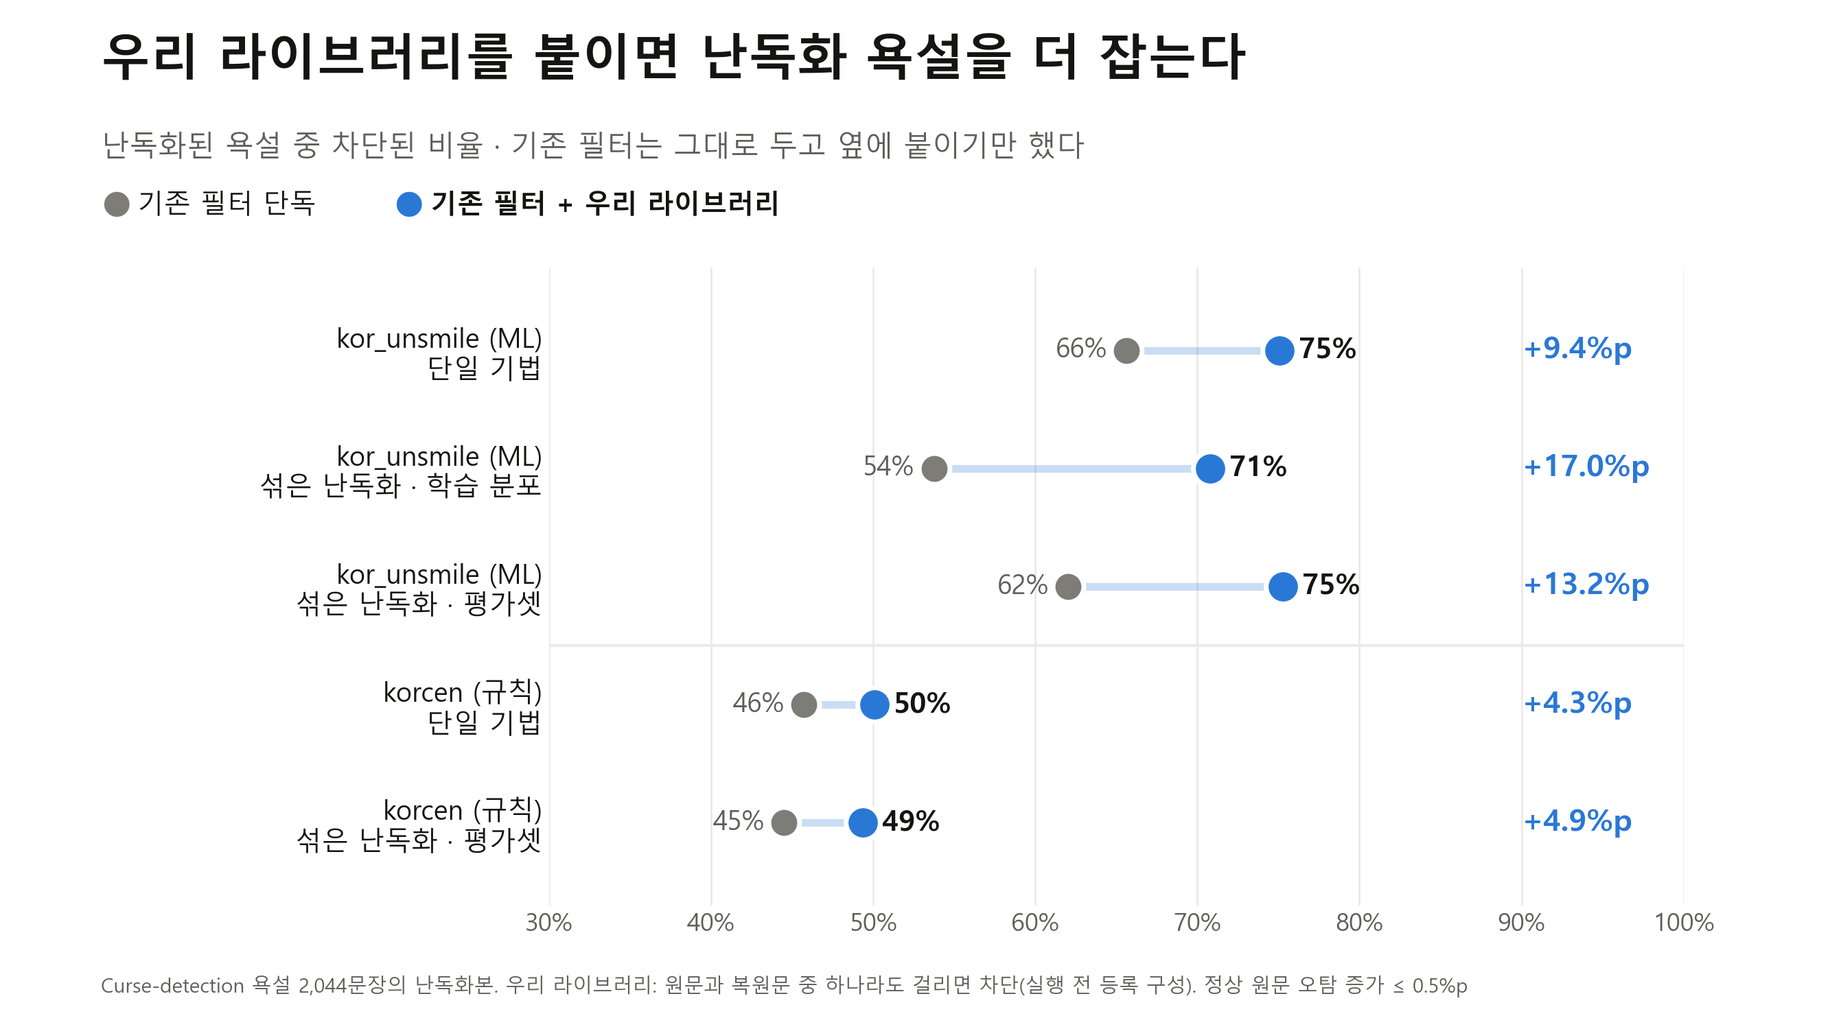
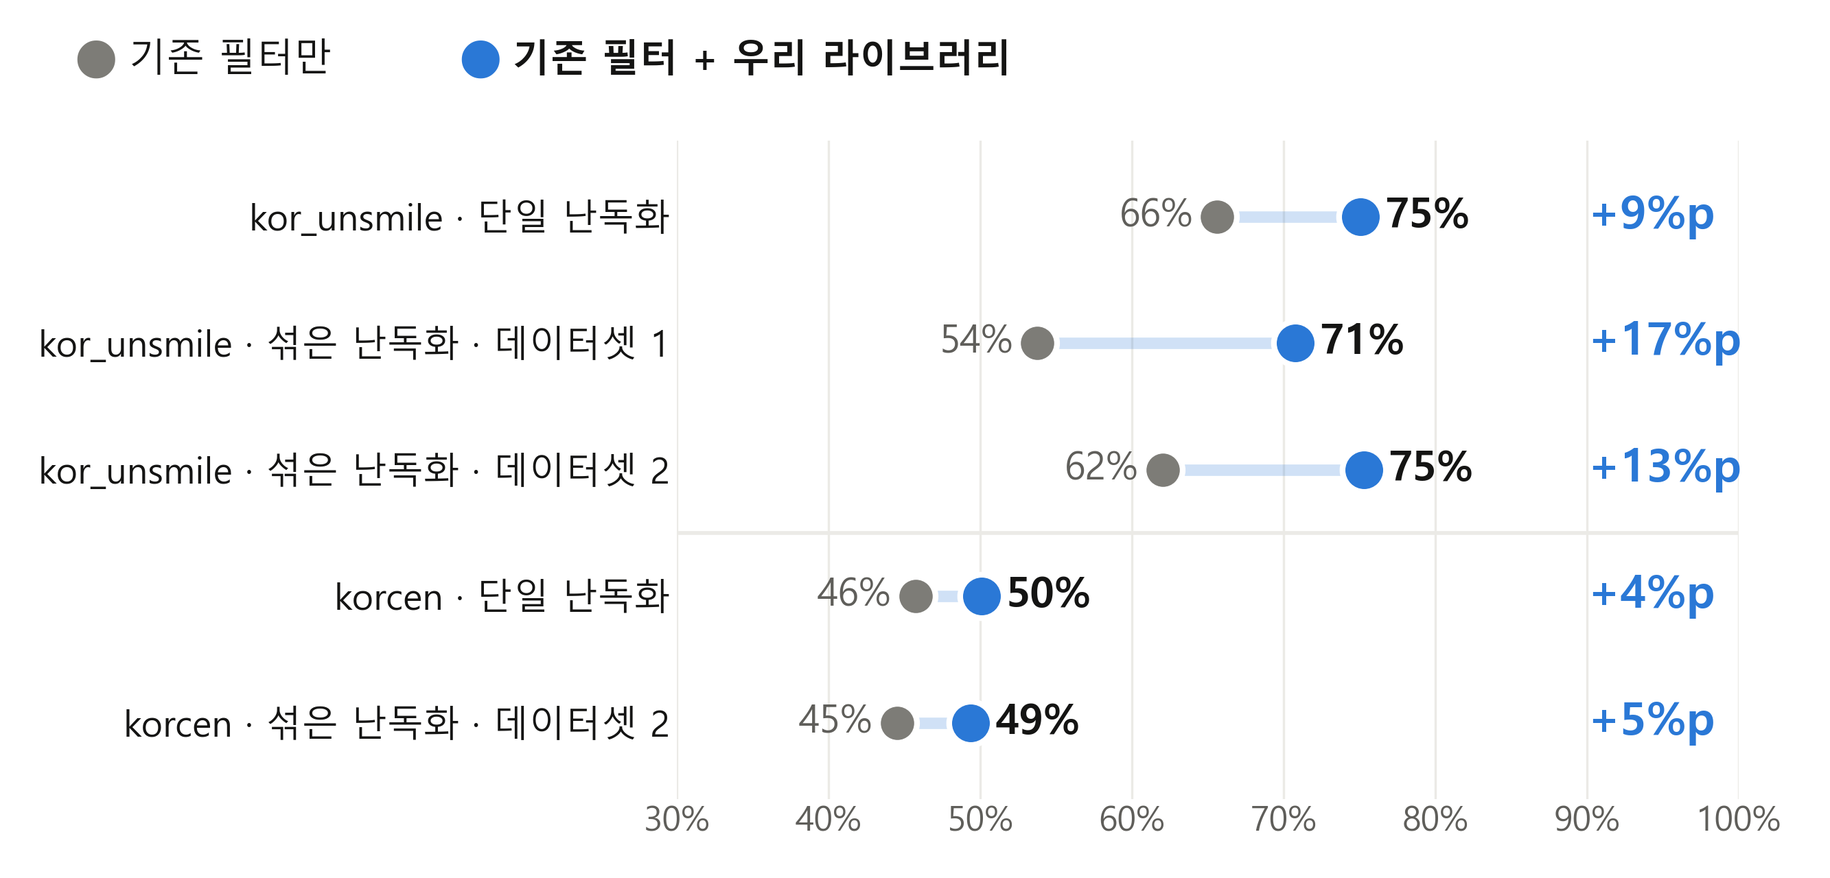
docs(guardrail): P05 슬라이드 그림을 그래프만 남기고 문구는 slides_text.md로 분리

diff --git a/guardrail/exp/p05_profanity/make_slides.py b/guardrail/exp/p05_profanity/make_slides.py
@@ -1,9 +1,12 @@
-"""p05 발표용 슬라이드 그림(16:9) — 기존 필터는 회색, 우리 라이브러리는 파란색 하나로 강조한다.
+"""p05 발표용 슬라이드 그림 — 그래프와 범례만 그린다. 제목·설명·각주는 PPT에서 쓰도록 `slides_text.md`로 따로 낸다.
 
-모든 수치는 results/p05.*/scores.jsonl에서 다시 계산한다. "우리 라이브러리"는 원문 OR 복원문 결합(실행 전 등록 구성,
-p05-mixed-obfuscation)이다. 지표는 난독화된 욕설 전체 중 차단된 비율(감지율)이다.
+기존 필터는 회색, 우리 라이브러리는 파란색 하나로 강조한다. "우리 라이브러리"는 원문 OR 복원문 결합(실행 전 등록 구성,
+p05-mixed-obfuscation)이고, 지표는 난독화된 욕설 중 차단된 비율(감지율)이다. 모든 수치는 results/p05.*/scores.jsonl에서
+다시 계산한다.
 
-    python guardrail/exp/p05_profanity/make_slides.py   # 저장소 루트에서 -> reports/figures/p05/slide_*.png
+데이터셋 표기(발표용): 데이터셋 1 = p04mix(복원 대상 9유형만 섞음), 데이터셋 2 = compose(경계 유형 포함 섞음).
+
+    python guardrail/exp/p05_profanity/make_slides.py   # 저장소 루트에서 -> reports/figures/p05/slide_*.png, slides_text.md
 """
 
 from __future__ import annotations
@@ -16,6 +19,7 @@ import matplotlib
 
 matplotlib.use("Agg")
 import matplotlib.pyplot as plt
+from matplotlib.ticker import FuncFormatter
 
 ROOT = Path(__file__).resolve().parents[3]
 RES, OUT = ROOT / "guardrail" / "results", ROOT / "guardrail" / "reports" / "figures" / "p05"
@@ -23,12 +27,21 @@ plt.rcParams.update({"font.family": "Malgun Gothic", "axes.unicode_minus": False
 
 SURF, INK, INK2, GRID = "#ffffff", "#141413", "#5f5e5a", "#ebeae6"
 OURS, BASE = "#2a78d6", "#7d7c77"
-W, H = 13.33, 7.5
+W, H = 13.33, 6.4                       # PPT 제목 아래 본문 영역(16:9 슬라이드의 약 85%)
+PCT = FuncFormatter(lambda v, _: f"{v:.0f}%")
 
 NAME = {"jamo_decompose": "자모 분해", "phon_insert": "받침·반모음 추가", "spacing": "띄어쓰기", "symbol_insert": "기호 삽입",
         "phon_vowel": "모음 교체", "phon_initial": "초성 교체·된소리", "shape_foreign": "닮은 외국문자", "chosung": "초성체",
         "phon_liaison": "연음", "phon_spelling": "소리 나는 대로", "phon_coda": "받침 교체", "syllable_extend": "음절 늘이기",
         "shape_hangul": "야민정음"}
+RUNS = {  # (필터, 데이터) -> (단독 run, 복원기 run)
+    ("kor_unsmile", "single"): ("p05.2-kor-unsmile", "p05.4-kor-unsmile-restored"),
+    ("kor_unsmile", "d1"): ("p05.6-kor-unsmile-p04mix", "p05.8-kor-unsmile-p04mix-restored"),
+    ("kor_unsmile", "d2"): ("p05.10-kor-unsmile-compose", "p05.12-kor-unsmile-compose-restored"),
+    ("korcen", "single"): ("p05.1-korcen", "p05.3-korcen-restored"),
+    ("korcen", "d2"): ("p05.9-korcen-compose", "p05.11-korcen-compose-restored"),
+}
+DATA = {"single": "단일 난독화", "d1": "섞은 난독화 · 데이터셋 1", "d2": "섞은 난독화 · 데이터셋 2"}
 
 
 def load(run: str) -> dict:
@@ -36,8 +49,8 @@ def load(run: str) -> dict:
         return {j["id"]: j for j in map(json.loads, f)}
 
 
-def detect(base: str, restored: str, key=lambda r: "all") -> dict:
-    """난독화된 욕설 감지율: 필터 단독, 원문 OR 복원문. key로 묶는다."""
+def detect(base: str, restored: str, key=lambda x: "all") -> dict:
+    """난독화된 욕설 감지율(%): (필터 단독, 원문 OR 복원문, 행 수). key로 묶는다."""
     b, r = load(base), load(restored)
     acc = defaultdict(lambda: [0, 0, 0])
     for i, x in b.items():
@@ -47,11 +60,20 @@ def detect(base: str, restored: str, key=lambda r: "all") -> dict:
     return {k: (100 * v[0] / v[2], 100 * v[1] / v[2], v[2]) for k, v in acc.items()}
 
 
-def slide(title: str, subtitle: str, note: str):
+def clean_fpr(base: str, restored: str) -> tuple[float, float]:
+    b, r = load(base), load(restored)
+    neg = [i for i, x in b.items() if x["technique"] is None and x["label"] == 0]
+    return (100 * sum(b[i]["flagged"] for i in neg) / len(neg),
+            100 * sum(b[i]["flagged"] or r[i]["flagged"] for i in neg) / len(neg))
+
+
+def figure(legend: bool = True):
     fig = plt.figure(figsize=(W, H), facecolor=SURF)
-    fig.text(0.055, 0.915, title, fontsize=26, fontweight="bold", color=INK, va="bottom")
-    fig.text(0.055, 0.87, subtitle, fontsize=15, color=INK2, va="top")
-    fig.text(0.055, 0.035, note, fontsize=10.5, color=INK2)
+    if legend:
+        fig.text(0.04, 0.93, "●", color=BASE, fontsize=24, va="center")
+        fig.text(0.07, 0.93, "기존 필터만", color=INK, fontsize=20, va="center")
+        fig.text(0.25, 0.93, "●", color=OURS, fontsize=24, va="center")
+        fig.text(0.28, 0.93, "기존 필터 + 우리 라이브러리", color=INK, fontsize=20, va="center", fontweight="bold")
     return fig
 
 
@@ -59,109 +81,142 @@ def clean(ax, grid="x"):
     ax.set_facecolor(SURF)
     for s in ax.spines.values():
         s.set_visible(False)
-    ax.tick_params(length=0, colors=INK2, labelsize=13)
-    getattr(ax, f"{grid}axis").grid(True, color=GRID, lw=1)
+    ax.tick_params(length=0, colors=INK2, labelsize=18)
+    getattr(ax, f"{grid}axis").grid(True, color=GRID, lw=1.2)
     ax.set_axisbelow(True)
-
-
-def legend_chips(fig, y=0.80):
-    fig.text(0.055, y, "●", color=BASE, fontsize=16, va="center")
-    fig.text(0.075, y, "기존 필터 단독", color=INK, fontsize=14, va="center")
-    fig.text(0.215, y, "●", color=OURS, fontsize=16, va="center")
-    fig.text(0.235, y, "기존 필터 + 우리 라이브러리", color=INK, fontsize=14, va="center", fontweight="bold")
 
 
 def dumbbell(ax, labels, pairs, xlim, delta_x):
     ys = list(range(len(labels)))[::-1]
     for y, (lo, hi) in zip(ys, pairs):
-        ax.plot([lo, hi], [y, y], color=OURS, lw=4, alpha=0.25, solid_capstyle="round", zorder=1)
-        ax.scatter([lo], [y], s=260, color=BASE, zorder=3, edgecolor=SURF, linewidth=2.5)
-        ax.scatter([hi], [y], s=320, color=OURS, zorder=4, edgecolor=SURF, linewidth=2.5)
-        ax.text(lo - 1.2, y, f"{lo:.0f}%", ha="right", va="center", fontsize=14, color=INK2)
-        ax.text(hi + 1.2, y, f"{hi:.0f}%", ha="left", va="center", fontsize=15, color=INK, fontweight="bold")
-        ax.text(delta_x, y, f"+{hi - lo:.1f}%p", ha="left", va="center", fontsize=16, color=OURS, fontweight="bold")
-    ax.set_yticks(ys); ax.set_yticklabels(labels, fontsize=14, color=INK)
-    ax.set_xlim(*xlim); ax.set_ylim(-0.7, len(labels) - 0.3)
-    ax.xaxis.set_major_formatter(matplotlib.ticker.FuncFormatter(lambda v, _: f"{v:.0f}%"))
+        ax.plot([lo, hi], [y, y], color=OURS, lw=6, alpha=0.22, solid_capstyle="round", zorder=1)
+        ax.scatter([lo], [y], s=420, color=BASE, zorder=3, edgecolor=SURF, linewidth=3)
+        ax.scatter([hi], [y], s=520, color=OURS, zorder=4, edgecolor=SURF, linewidth=3)
+        ax.text(lo - 1.6, y, f"{lo:.0f}%", ha="right", va="center", fontsize=20, color=INK2)
+        ax.text(hi + 1.6, y, f"{hi:.0f}%", ha="left", va="center", fontsize=22, color=INK, fontweight="bold")
+        ax.text(delta_x, y, f"+{hi - lo:.0f}%p", ha="left", va="center", fontsize=24, color=OURS, fontweight="bold")
+    ax.set_yticks(ys); ax.set_yticklabels(labels, fontsize=19, color=INK)
+    ax.set_xlim(*xlim); ax.set_ylim(-0.6, len(labels) - 0.4)
+    ax.xaxis.set_major_formatter(PCT)
 
 
-def slide1():
-    rows = [("kor_unsmile (ML)", "단일 기법", "p05.2-kor-unsmile", "p05.4-kor-unsmile-restored"),
-            ("kor_unsmile (ML)", "섞은 난독화 · 학습 분포", "p05.6-kor-unsmile-p04mix", "p05.8-kor-unsmile-p04mix-restored"),
-            ("kor_unsmile (ML)", "섞은 난독화 · 평가셋", "p05.10-kor-unsmile-compose", "p05.12-kor-unsmile-compose-restored"),
-            ("korcen (규칙)", "단일 기법", "p05.1-korcen", "p05.3-korcen-restored"),
-            ("korcen (규칙)", "섞은 난독화 · 평가셋", "p05.9-korcen-compose", "p05.11-korcen-compose-restored")]
-    vals = [detect(b, r)["all"][:2] for _, _, b, r in rows]
-    fig = slide("우리 라이브러리를 붙이면 난독화 욕설을 더 잡는다",
-                "난독화된 욕설 중 차단된 비율 · 기존 필터는 그대로 두고 옆에 붙이기만 했다",
-                "Curse-detection 욕설 2,044문장의 난독화본. 우리 라이브러리: 원문과 복원문 중 하나라도 걸리면 차단(실행 전 등록 구성). "
-                "정상 원문 오탐 증가 ≤ 0.5%p")
-    legend_chips(fig)
-    ax = fig.add_axes([0.30, 0.12, 0.62, 0.62]); clean(ax)
-    dumbbell(ax, [f"{f}\n{c}" for f, c, _, _ in rows], vals, (30, 100), 90)
-    ax.axhline(1.5, color=GRID, lw=1.5)
+def slide1() -> dict:
+    keys = list(RUNS)
+    vals = {k: detect(*RUNS[k])["all"] for k in keys}
+    fig = figure()
+    ax = fig.add_axes([0.37, 0.09, 0.58, 0.75]); clean(ax)
+    labels = [f"{f} · {DATA[d]}" if d != "single" else f"{f} · {DATA[d]}" for f, d in keys]
+    dumbbell(ax, labels, [vals[k][:2] for k in keys], (30, 100), 90)
+    ax.axhline(1.5, color=GRID, lw=2)
     fig.savefig(OUT / "slide_1_detection.png", dpi=200, facecolor=SURF)
+    plt.close(fig)
+    return vals
 
 
-def slide2():
-    d = detect("p05.6-kor-unsmile-p04mix", "p05.8-kor-unsmile-p04mix-restored", key=lambda x: x["type"])
+def slide2() -> dict:
+    d = detect(*RUNS[("kor_unsmile", "d1")], key=lambda x: x["type"])
     ns = sorted(k for k in d if d[k][2] > 100)
     xs = [int(k.split("=")[1]) for k in ns]
     lo, hi = [d[k][0] for k in ns], [d[k][1] for k in ns]
-    fig = slide("섞을수록 기존 필터는 무너지고, 차이는 벌어진다",
-                "kor_unsmile · 한 문장에 섞은 난독화 기법 수별 감지율",
-                "복원기 학습 분포 섞기(p04mix, 복원 대상 9유형, 초성체 제외). 평가셋 섞기(경계 유형 포함)에서도 +12~14%p 유지. "
-                "우리 라이브러리: 원문 OR 복원문")
-    legend_chips(fig)
-    ax = fig.add_axes([0.08, 0.17, 0.80, 0.57]); clean(ax, "y")
+    fig = figure()
+    ax = fig.add_axes([0.08, 0.14, 0.80, 0.70]); clean(ax, "y")
     ax.fill_between(xs, lo, hi, color=OURS, alpha=0.10, lw=0)
-    ax.plot(xs, lo, color=BASE, lw=3.5, marker="o", ms=13, mec=SURF, mew=2.5)
-    ax.plot(xs, hi, color=OURS, lw=4, marker="o", ms=14, mec=SURF, mew=2.5)
+    ax.plot(xs, lo, color=BASE, lw=5, marker="o", ms=18, mec=SURF, mew=3)
+    ax.plot(xs, hi, color=OURS, lw=5.5, marker="o", ms=19, mec=SURF, mew=3)
     for x, a, b in zip(xs, lo, hi):
-        ax.text(x, a - 3.2, f"{a:.0f}%", ha="center", va="top", fontsize=15, color=INK2)
-        ax.text(x, b + 2.6, f"{b:.0f}%", ha="center", va="bottom", fontsize=16, color=INK, fontweight="bold")
-    ax.annotate(f"+{hi[-1] - lo[-1]:.0f}%p", xy=(xs[-1] + 0.12, (lo[-1] + hi[-1]) / 2), fontsize=22, color=OURS,
-                fontweight="bold", va="center")
-    ax.set_xticks(xs); ax.set_xticklabels([f"{x}개" for x in xs], fontsize=15, color=INK)
-    ax.set_xlim(xs[0] - 0.35, xs[-1] + 0.65); ax.set_ylim(30, 90)
-    ax.yaxis.set_major_formatter(matplotlib.ticker.FuncFormatter(lambda v, _: f"{v:.0f}%"))
-    ax.set_xlabel("한 문장에 섞은 기법 수", fontsize=13, color=INK2, labelpad=8)
+        ax.text(x, a - 3.6, f"{a:.0f}%", ha="center", va="top", fontsize=21, color=INK2)
+        ax.text(x, b + 3.0, f"{b:.0f}%", ha="center", va="bottom", fontsize=22, color=INK, fontweight="bold")
+    ax.text(xs[-1] + 0.14, (lo[-1] + hi[-1]) / 2, f"+{hi[-1] - lo[-1]:.0f}%p", fontsize=30, color=OURS,
+            fontweight="bold", va="center")
+    ax.set_xticks(xs); ax.set_xticklabels([f"기법 {x}개" for x in xs], fontsize=20, color=INK)
+    ax.set_xlim(xs[0] - 0.35, xs[-1] + 0.75); ax.set_ylim(30, 90)
+    ax.yaxis.set_major_formatter(PCT)
     fig.savefig(OUT / "slide_2_mixed.png", dpi=200, facecolor=SURF)
+    plt.close(fig)
+    return {"ns": xs, "lo": lo, "hi": hi}
 
 
-def slide3():
-    d = detect("p05.2-kor-unsmile", "p05.4-kor-unsmile-restored", key=lambda x: x["type"])
-    top = sorted(d, key=lambda k: -(d[k][1] - d[k][0]))[:7]
-    fig = slide("가장 크게 되찾는 난독화 유형",
-                "kor_unsmile · 유형별 감지율 (기법 하나씩 적용, 상위 7유형)",
-                "나머지 6유형(연음·소리 나는 대로·받침 교체·초성체·음절 늘이기·야민정음)은 +1.6~6.2%p. "
-                "초성체·야민정음·음절 늘이기는 복원 범위 밖 또는 경계")
-    legend_chips(fig)
-    ax = fig.add_axes([0.24, 0.12, 0.68, 0.62]); clean(ax)
-    dumbbell(ax, [NAME[k] for k in top], [d[k][:2] for k in top], (40, 100), 92)
+def slide3() -> dict:
+    d = detect(*RUNS[("kor_unsmile", "single")], key=lambda x: x["type"])
+    top = sorted(d, key=lambda k: -(d[k][1] - d[k][0]))[:6]
+    fig = figure()
+    ax = fig.add_axes([0.25, 0.09, 0.70, 0.75]); clean(ax)
+    dumbbell(ax, [NAME[k] for k in top], [d[k][:2] for k in top], (40, 100), 91.5)
     fig.savefig(OUT / "slide_3_by_type.png", dpi=200, facecolor=SURF)
+    plt.close(fig)
+    return {k: d[k] for k in sorted(d, key=lambda k: -(d[k][1] - d[k][0]))}
 
 
-def slide4():
-    models = [("우리 라이브러리\n(KcELECTRA 태거)", 0.129, OURS), ("KOTOX 해제 모델\nQwen2.5-7B", 7.6, BASE),
-              ("KOTOX 해제 모델\nEXAONE-3.5-7.8B", 7.8, BASE), ("KOTOX 해제 모델\nBllossom-8B", 8.0, BASE)]
-    fig = slide("LLM 해제 모델의 약 1/60 크기",
-                "난독화 복원 모델 파라미터 수(십억 개)",
-                "우리 라이브러리 지연(문장 1개): GPU p50 6.7ms·p95 12.1ms, CPU p50 14.9ms. "
-                "KOTOX(arXiv 2510.10961) 공개 해제 모델과 크기만 비교했다(속도·정확도는 같은 조건에서 재지 않음)")
-    ax = fig.add_axes([0.24, 0.14, 0.68, 0.62]); clean(ax)
+def slide4() -> list:
+    models = [("우리 라이브러리", 0.129, OURS), ("LLM 해제 모델 A", 7.6, BASE),
+              ("LLM 해제 모델 B", 7.8, BASE), ("LLM 해제 모델 C", 8.0, BASE)]
+    fig = figure(legend=False)
+    ax = fig.add_axes([0.22, 0.10, 0.72, 0.82]); clean(ax)
     ys = list(range(len(models)))[::-1]
     for y, (n, v, c) in zip(ys, models):
-        ax.barh(y, v, height=0.55, color=c, edgecolor=SURF, linewidth=2)
-        ax.text(v + 0.12, y, f"{v:g}B" if v >= 1 else f"{v * 1000:.0f}M", va="center", fontsize=16,
-                color=INK, fontweight="bold" if c == OURS else "normal")
-    ax.set_yticks(ys); ax.set_yticklabels([m[0] for m in models], fontsize=14, color=INK)
-    ax.set_xlim(0, 9); ax.xaxis.set_major_formatter(matplotlib.ticker.FuncFormatter(lambda v, _: f"{v:.0f}B"))
+        ax.barh(y, v, height=0.6, color=c, edgecolor=SURF, linewidth=3)
+        ax.text(v + 0.15, y, f"{v:g}B" if v >= 1 else f"{v * 1000:.0f}M", va="center", fontsize=24,
+                color=OURS if c == OURS else INK, fontweight="bold" if c == OURS else "normal")
+    ax.set_yticks(ys); ax.set_yticklabels([m[0] for m in models], fontsize=20, color=INK)
+    ax.get_yticklabels()[0].set_fontweight("bold")
+    ax.set_xlim(0, 9.2); ax.xaxis.set_major_formatter(FuncFormatter(lambda v, _: f"{v:.0f}B"))
     fig.savefig(OUT / "slide_4_size.png", dpi=200, facecolor=SURF)
+    plt.close(fig)
+    return models
+
+
+def text(v1, v2, v3) -> str:
+    u = lambda d: f"{v1[('kor_unsmile', d)][0]:.0f}% → {v1[('kor_unsmile', d)][1]:.0f}%"
+    f1, f2 = clean_fpr(*RUNS[("kor_unsmile", "d1")])
+    t = list(v3.items())
+    rest = ", ".join(f"{NAME[k]} +{v[1] - v[0]:.1f}%p" for k, v in t[6:])
+    return f"""# P05 발표 슬라이드 문구
+
+그림(`slide_*.png`)에는 그래프와 범례만 있다. 아래 제목·설명·각주를 PPT에 직접 쓴다. 수치는 `make_slides.py`가 결과 파일에서
+다시 계산해 이 파일을 함께 만든다.
+
+## 공통: 데이터셋 설명 (첫 결과 슬라이드나 부록에 한 번)
+
+- **평가 문장**: 공개 커뮤니티 댓글 욕설 데이터(Curse-detection, 5,825문장 중 욕설 2,044문장)
+- **단일 난독화**: 욕설 문장마다 난독화 기법 하나씩 적용(24개 기법)
+- **섞은 난독화 · 데이터셋 1**: 한 문장에 기법 1~4개를 섞음. 우리 라이브러리가 복원하도록 설계된 9개 유형만 사용
+- **섞은 난독화 · 데이터셋 2**: 한 문장에 기법 2~4개를 섞음. 복원 범위 밖의 모양 바꾸기(야민정음·닮은 외국문자 등)까지 포함한 더 현실적인 조건
+- **우리 라이브러리 적용 방식**: 기존 필터는 그대로 두고, 원문과 복원문을 둘 다 검사해 하나라도 걸리면 차단
+- **기존 필터**: kor_unsmile(공개 ML 분류기), korcen(공개 규칙 기반 필터)
+
+## 슬라이드 1 — `slide_1_detection.png`
+
+- 제목: **우리 라이브러리를 붙이면 난독화된 욕설을 더 잡는다**
+- 한 줄 설명: 난독화된 욕설 중 차단된 비율. 기존 필터는 바꾸지 않고 옆에 붙이기만 했다
+- 말할 거리: kor_unsmile 기준 단일 난독화 {u('single')}, 데이터셋 1 {u('d1')}, 데이터셋 2 {u('d2')}
+- 각주: 정상 문장을 욕설로 잘못 막는 비율은 거의 그대로(kor_unsmile {f1:.1f}% → {f2:.1f}%)
+
+## 슬라이드 2 — `slide_2_mixed.png`
+
+- 제목: **섞을수록 기존 필터는 무너지고, 우리 라이브러리와의 차이는 벌어진다**
+- 한 줄 설명: kor_unsmile, 한 문장에 섞은 난독화 기법 수별 감지율(데이터셋 1)
+- 말할 거리: 기법 4개를 섞으면 기존 필터는 {v2['lo'][-1]:.0f}%만 잡지만, 우리 라이브러리를 붙이면 {v2['hi'][-1]:.0f}%(+{v2['hi'][-1] - v2['lo'][-1]:.0f}%p)
+- 각주: 데이터셋 2(복원 범위 밖 유형 포함)에서도 +12~14%p 차이 유지
+
+## 슬라이드 3 — `slide_3_by_type.png`
+
+- 제목: **가장 크게 되찾는 난독화 유형**
+- 한 줄 설명: kor_unsmile, 난독화 유형별 감지율(단일 난독화, 향상폭 상위 6유형)
+- 말할 거리: 자모 분해(ㅅ ㅣ ㅂ ㅏ ㄹ 식) {t[0][1][0]:.0f}% → {t[0][1][1]:.0f}%, 받침·반모음 추가 {t[1][1][0]:.0f}% → {t[1][1][1]:.0f}%
+- 각주: 나머지 유형은 {rest}. 초성체는 현재 복원 범위 밖, 닮은 외국문자·야민정음·음절 늘이기는 경계(복원 여부 미정)
+
+## 슬라이드 4 — `slide_4_size.png`
+
+- 제목: **LLM 기반 해제 모델의 약 1/60 크기**
+- 한 줄 설명: 난독화 복원 모델의 파라미터 수
+- 말할 거리: 우리 라이브러리 1.29억 개, LLM 해제 모델 76억~80억 개. 문장 하나 처리 시간 GPU 약 7ms(p50)
+- 각주: LLM 해제 모델 A·B·C는 KOTOX 연구(arXiv 2510.10961)가 공개한 Qwen2.5-7B·EXAONE-3.5-7.8B·Bllossom-8B 기반 모델. 크기만 비교했고 속도·정확도는 같은 조건에서 재지 않았다
+"""
 
 
 if __name__ == "__main__":
     OUT.mkdir(parents=True, exist_ok=True)
-    for f in (slide1, slide2, slide3, slide4):
-        f()
+    v1, v2, v3 = slide1(), slide2(), slide3()
+    slide4()
+    (OUT / "slides_text.md").write_text(text(v1, v2, v3), encoding="utf-8", newline="\n")
     print("ok")

diff --git a/guardrail/reports/figures/p05/slides_text.md b/guardrail/reports/figures/p05/slides_text.md
@@ -1,0 +1,41 @@
+# P05 발표 슬라이드 문구
+
+그림(`slide_*.png`)에는 그래프와 범례만 있다. 아래 제목·설명·각주를 PPT에 직접 쓴다. 수치는 `make_slides.py`가 결과 파일에서
+다시 계산해 이 파일을 함께 만든다.
+
+## 공통: 데이터셋 설명 (첫 결과 슬라이드나 부록에 한 번)
+
+- **평가 문장**: 공개 커뮤니티 댓글 욕설 데이터(Curse-detection, 5,825문장 중 욕설 2,044문장)
+- **단일 난독화**: 욕설 문장마다 난독화 기법 하나씩 적용(24개 기법)
+- **섞은 난독화 · 데이터셋 1**: 한 문장에 기법 1~4개를 섞음. 우리 라이브러리가 복원하도록 설계된 9개 유형만 사용
+- **섞은 난독화 · 데이터셋 2**: 한 문장에 기법 2~4개를 섞음. 복원 범위 밖의 모양 바꾸기(야민정음·닮은 외국문자 등)까지 포함한 더 현실적인 조건
+- **우리 라이브러리 적용 방식**: 기존 필터는 그대로 두고, 원문과 복원문을 둘 다 검사해 하나라도 걸리면 차단
+- **기존 필터**: kor_unsmile(공개 ML 분류기), korcen(공개 규칙 기반 필터)
+
+## 슬라이드 1 — `slide_1_detection.png`
+
+- 제목: **우리 라이브러리를 붙이면 난독화된 욕설을 더 잡는다**
+- 한 줄 설명: 난독화된 욕설 중 차단된 비율. 기존 필터는 바꾸지 않고 옆에 붙이기만 했다
+- 말할 거리: kor_unsmile 기준 단일 난독화 66% → 75%, 데이터셋 1 54% → 71%, 데이터셋 2 62% → 75%
+- 각주: 정상 문장을 욕설로 잘못 막는 비율은 거의 그대로(kor_unsmile 12.5% → 13.0%)
+
+## 슬라이드 2 — `slide_2_mixed.png`
+
+- 제목: **섞을수록 기존 필터는 무너지고, 우리 라이브러리와의 차이는 벌어진다**
+- 한 줄 설명: kor_unsmile, 한 문장에 섞은 난독화 기법 수별 감지율(데이터셋 1)
+- 말할 거리: 기법 4개를 섞으면 기존 필터는 46%만 잡지만, 우리 라이브러리를 붙이면 66%(+20%p)
+- 각주: 데이터셋 2(복원 범위 밖 유형 포함)에서도 +12~14%p 차이 유지
+
+## 슬라이드 3 — `slide_3_by_type.png`
+
+- 제목: **가장 크게 되찾는 난독화 유형**
+- 한 줄 설명: kor_unsmile, 난독화 유형별 감지율(단일 난독화, 향상폭 상위 6유형)
+- 말할 거리: 자모 분해(ㅅ ㅣ ㅂ ㅏ ㄹ 식) 65% → 85%, 받침·반모음 추가 54% → 69%
+- 각주: 나머지 유형은 닮은 외국문자 +6.9%p, 초성체 +6.2%p, 연음 +5.8%p, 소리 나는 대로 +4.1%p, 받침 교체 +3.4%p, 음절 늘이기 +2.2%p, 야민정음 +1.6%p. 초성체는 현재 복원 범위 밖, 닮은 외국문자·야민정음·음절 늘이기는 경계(복원 여부 미정)
+
+## 슬라이드 4 — `slide_4_size.png`
+
+- 제목: **LLM 기반 해제 모델의 약 1/60 크기**
+- 한 줄 설명: 난독화 복원 모델의 파라미터 수
+- 말할 거리: 우리 라이브러리 1.29억 개, LLM 해제 모델 76억~80억 개. 문장 하나 처리 시간 GPU 약 7ms(p50)
+- 각주: LLM 해제 모델 A·B·C는 KOTOX 연구(arXiv 2510.10961)가 공개한 Qwen2.5-7B·EXAONE-3.5-7.8B·Bllossom-8B 기반 모델. 크기만 비교했고 속도·정확도는 같은 조건에서 재지 않았다
